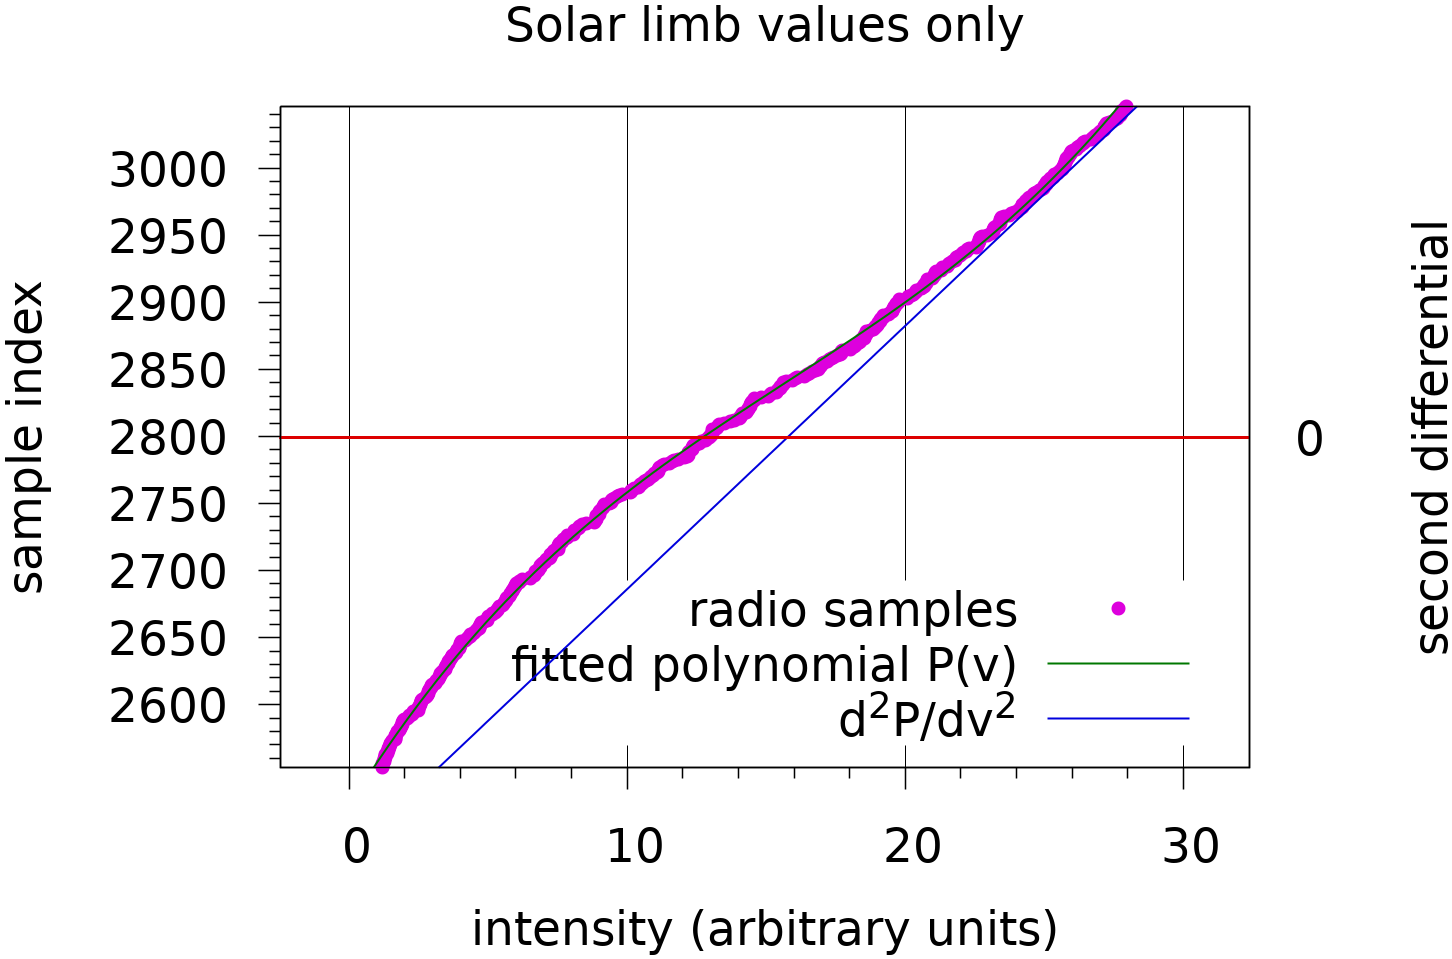
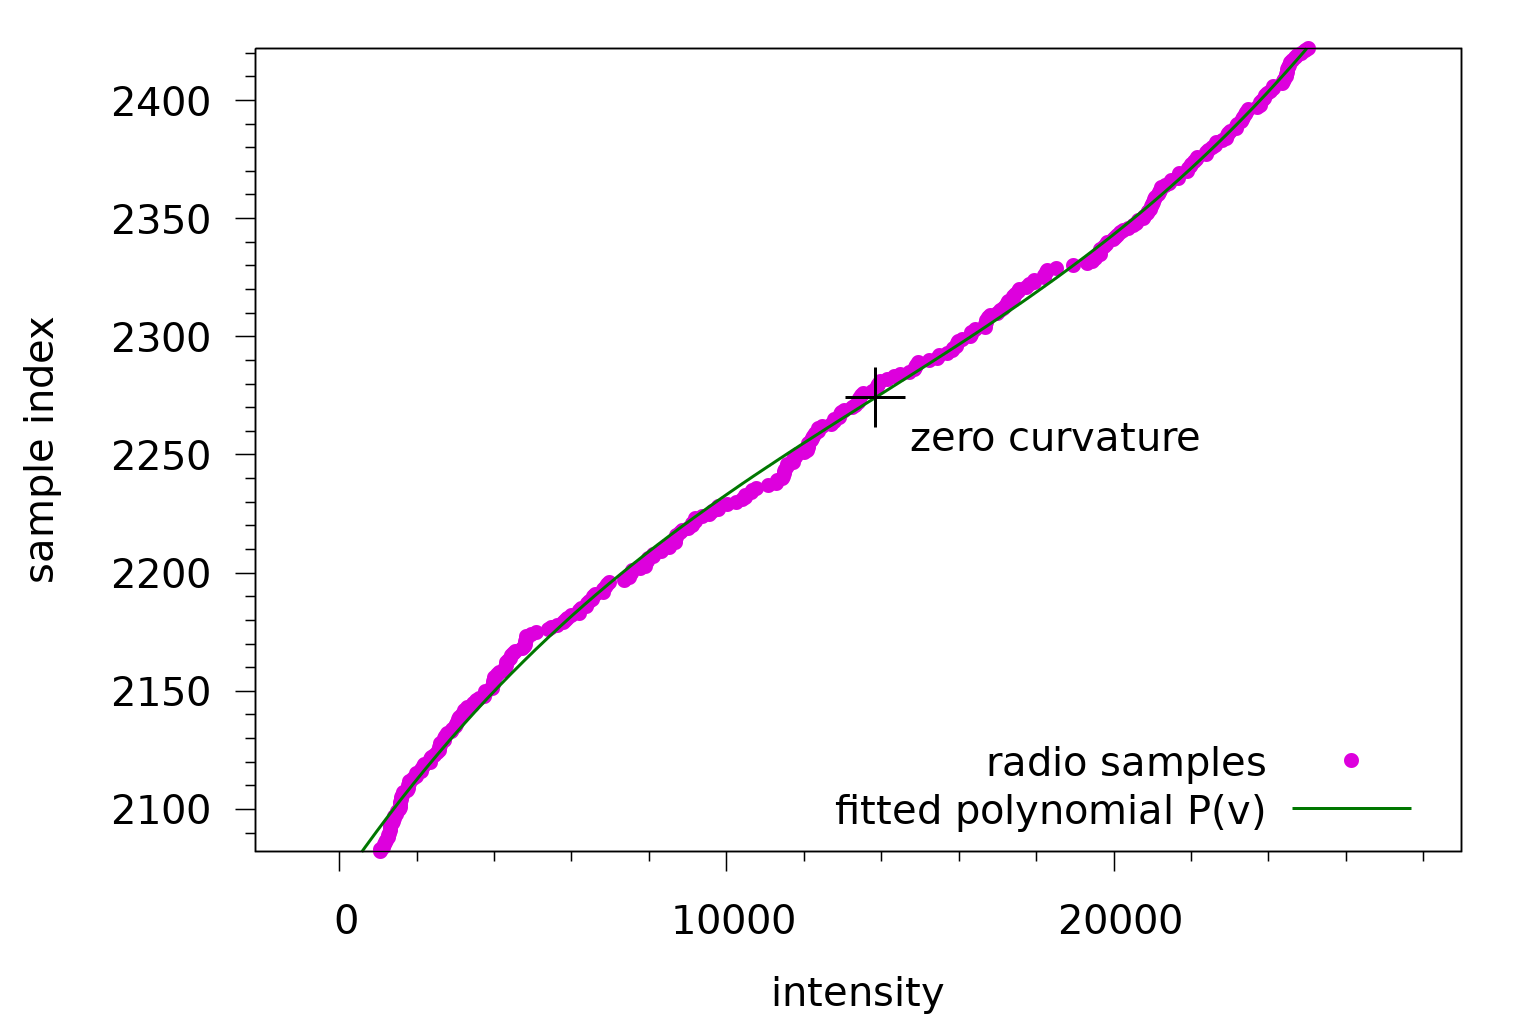
include Sami's changes

diff --git a/main_P1.tex b/main_P1.tex
@@ -13,7 +13,7 @@
 %
 \usepackage{graphicx,svg,bm,amsmath,dsfont,siunitx,wasysym,tikz,color,scalerel}
 %%%%%%%%%%%%%%%%%%%%%%%%%%%%%%%%%%%%%%%%
-\usepackage{comment}
+%\usepackage{comment}
 \usepackage{hyperref}
 %\usetikzlibrary{arrows,positioning,decorations.pathmorphing,backgrounds,calc,shadows}
 %\tikzset{
@@ -231,6 +231,7 @@
   and the next sunspot cycle begins.
   %FAG remove paragraph break and reword
   The full 22 year cycle comprises two such sunspot cycles.
+  
   %The full magnetic cycle is ca. $22$ years and consists of two sunspot cycles.
 
   %FAG insert paragraph break
@@ -264,6 +265,7 @@
   %\citep{GHHZ83,VLMCS12}
   %and \citep[][and references therein]{LUSDADM17}.
   \citep{GHHZ83,VLMCS12,LUSDADM17}.
+All our HPCE3 visitors from the spring period were paused an
   It is also reported for radio brightenings of the 17 and $\SI{34}{GHz}$ band
   \citep{Shibasaki13,SCGVPS14} and of $\SI{37}{GHz}$ \citep{metsahovi40}.
   \fag{add additional references in radio and visible data into above paragraph}
@@ -336,19 +338,25 @@
   This article shall describe the pipeline of data processing to transform the
   raw data into a time series of solar radio maps, normalised, corrected for
   instrumental bias, atmospheric noise and effects, time of day and seasonal
-  effects and solar lim dimming effects.
+  effects and solar 
+  %MJK lim typo
+  limb dimming effects.
   We present two methods for correctly detecting the position of the solar disk
   in each map and three methods for normalizing the signal levels, such that
-  the background \emph{black sky} is has value zero and the 
+  the background \emph{black sky} 
+  %MJK is 
+  has value zero and the 
   Quiet Sun Level (QSL) value unity.
   The maps are then projected from RA and Dec onto their rotating heliographic
   surface coordinates.
   We also introduce tools we have prepared for automatic tracking of active 
   regions, which are suitable for any magnetograms or similar maps, and which
   we shall apply in detail in future publication.
-  This is decribed in Section\,\ref{sect:methods}.
+  This is 
+  %decribed 
+  described in Section\,\ref{sect:methods}.
 
-   
+  %MJK 'From this' does not sound understandable. 
   From this we present a time-latitude histogram of the radio intensity,
   including previously inaccessible machine-drawn maps from 1978 -- 1987 and
   up to 2020.
@@ -358,8 +366,12 @@
   counts during the same epoch.
   The are presented in Section\,\ref{sect:results} together with some 
   examples of our active region tracking.
-  Finally, we discuss in Section\,\ref{sect:discussion} some how the radio 
-  observations differ from other solar observations, consistent with the 
+  Finally, we discuss in Section\,\ref{sect:discussion} 
+  %MJK some 
+  how the radio 
+  observations differ from other solar observations, 
+  %MJK Consistency with Shibasaki could be left to be said later.
+  consistent with the 
   results of \citet{Shibasaki13}. 
 
   %FAG the residual text has been copied to Methods 
@@ -457,11 +469,15 @@
     tapes, from which the data was rendered onto paper contour maps using a
     mechanical plotter.
     Subsequently the magnetic tapes were lost, so that only the printed maps
-    were only available. 
+    were 
+    %MJK one too many 'only's
+    %only 
+    available. 
     Applying pattern recognition techniques developed by
     \cite{masterthesis}, the scans of the paper contour maps were converted
-    back into a numerical form, consistent with that of the later 
-    digital format.
+    back into a numerical form, consistent with that of 
+    %MJK This might not be understandable stand alone. One could add smthg like "the digital format currently used for reconrding new maps".
+    the later digital format.
     The solar disk position was already marked on these paper maps.
     \item
     Until the end of May 2015 the maps were scanned in the equatorial direction,
@@ -482,7 +498,10 @@
   The intensity ranges shown in Figure\,\ref{typicalmap} are the original
   uncalibrated levels.
   For these, as well as those recovered from the earlier paper prints, the 
-  signal levels need to be normalised, to correctly identify the QSL and the
+  signal levels need to be normalised, to correctly identify the 
+  %MJK Quiet Sun level? Has this been introduced earlier?
+  %MJK It was introduced later, now swapped.
+  quiet Sun level (hereafter QSL) and the
   black sky, also explained in Section\,\ref{sect:disk}.
 
   %
@@ -544,7 +563,10 @@ for the scan $S$ in order to produce a disk model:
 F_j(S) = \left( \delta \mathrm{RA}_S, \delta \mathrm{dec}_S, R_S, \s{u}{background}(S), \s{u}{QSL}(S) \right) \text{.}
 }
 %The disk fitting model in $F_j$ is used for correcting small tracking errors and calibrating the intensity levels.
-We then obtain calibrated position and intensity for each sample. Signal levels are scaled so that zero is for the background and unity for the Quiet Sun Level (QSL):
+We then obtain calibrated position and intensity for each sample. Signal levels are scaled so that zero is for the background and unity for the 
+%MJK OK, defined here, hence:
+%Quiet Sun Level (QSL):
+QSL:
 %\eqnl{calibrated_samples}{
 %c_i = F(S)(s_i) = \left( t_i, x_i, y_i, v_i \right) \text{,}
 %}
@@ -723,9 +745,7 @@ There are odd number of such roots, so we choose the one in the middle: $u_0 := 
 \begin{figure}
 \centering
 \includegraphics[width=8.5cm]{Scurve_example.png}
-\caption{Radio samples of a typical solar scan sorted according to intensity. Comment: mark the d2y/dx2 = 0 as a cross. 
-%MJK Yes, agree that the grids are not needed and the second y-axis is spurious.
-Remove grids and second differential/axis.}
+\caption{Radio samples of a typical solar scan sorted according to intensity. a) All samples. Between the dashed lines are the mixed samples which have contribution from the solar limb as well as the background. b) Only the mixed samples, into which a polynomial is fitted. A point of zero curvature (cross) provides a pivot point for signal level normalization.}
 \label{S-curve_example}
 \end{figure}
 
